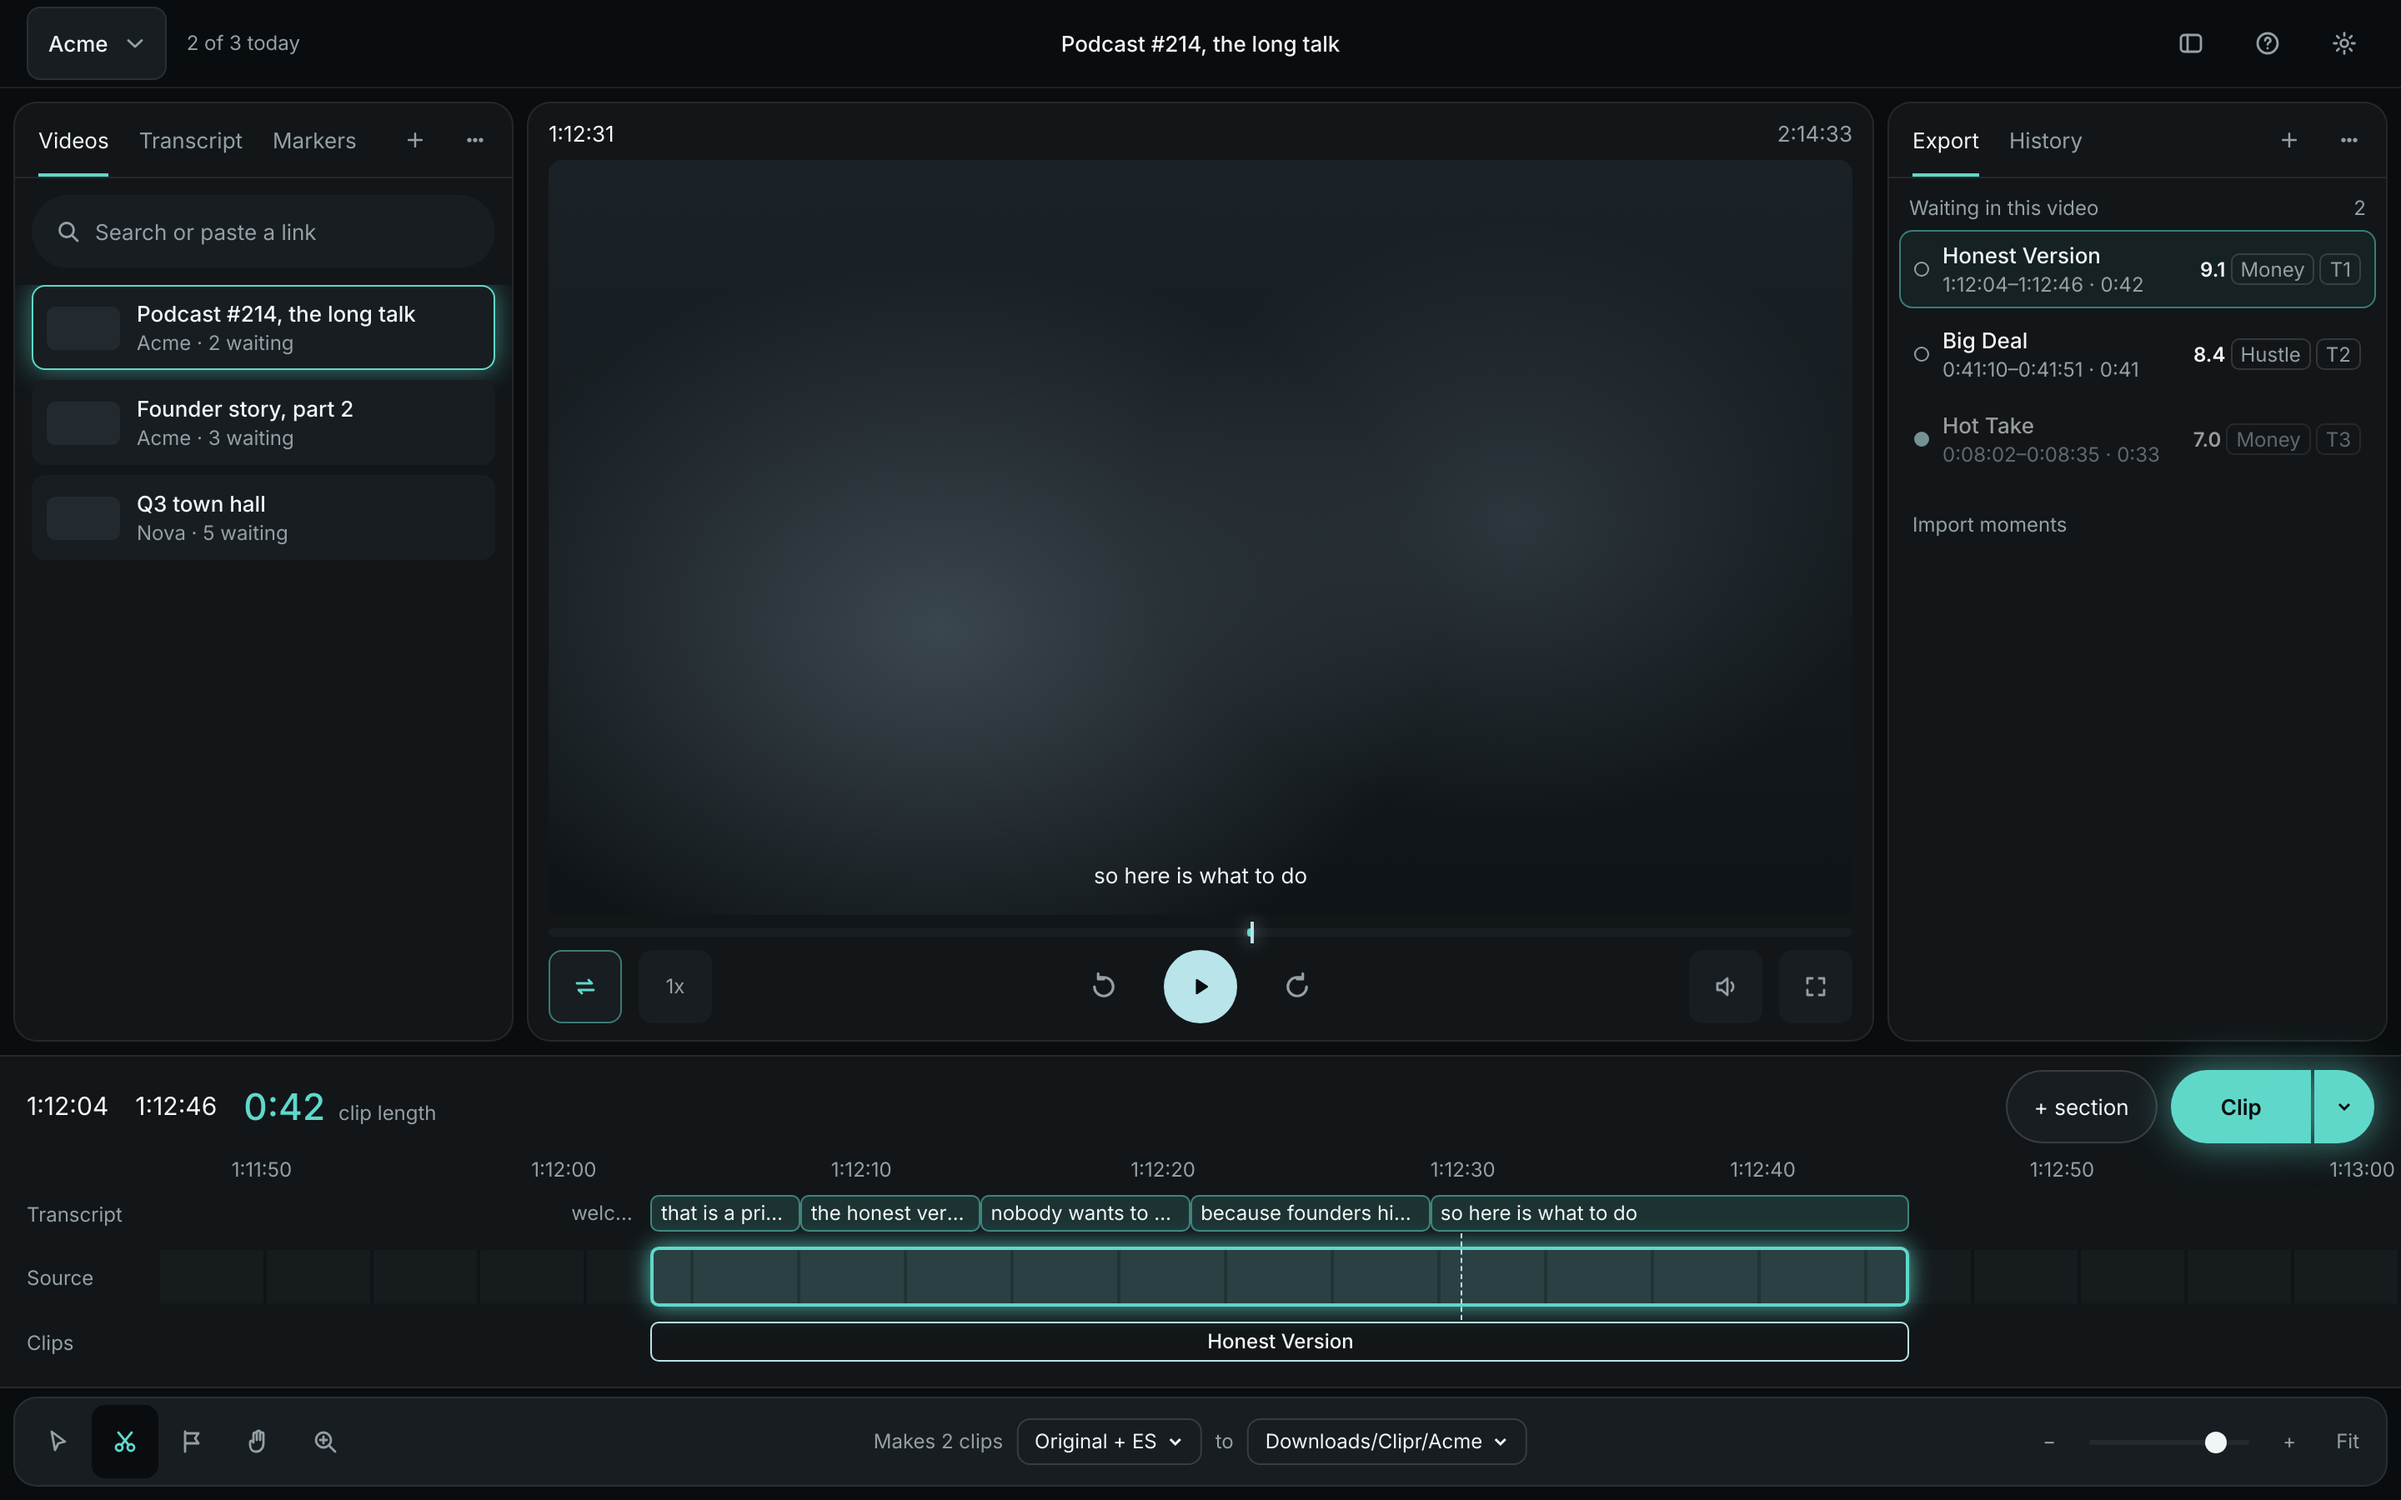
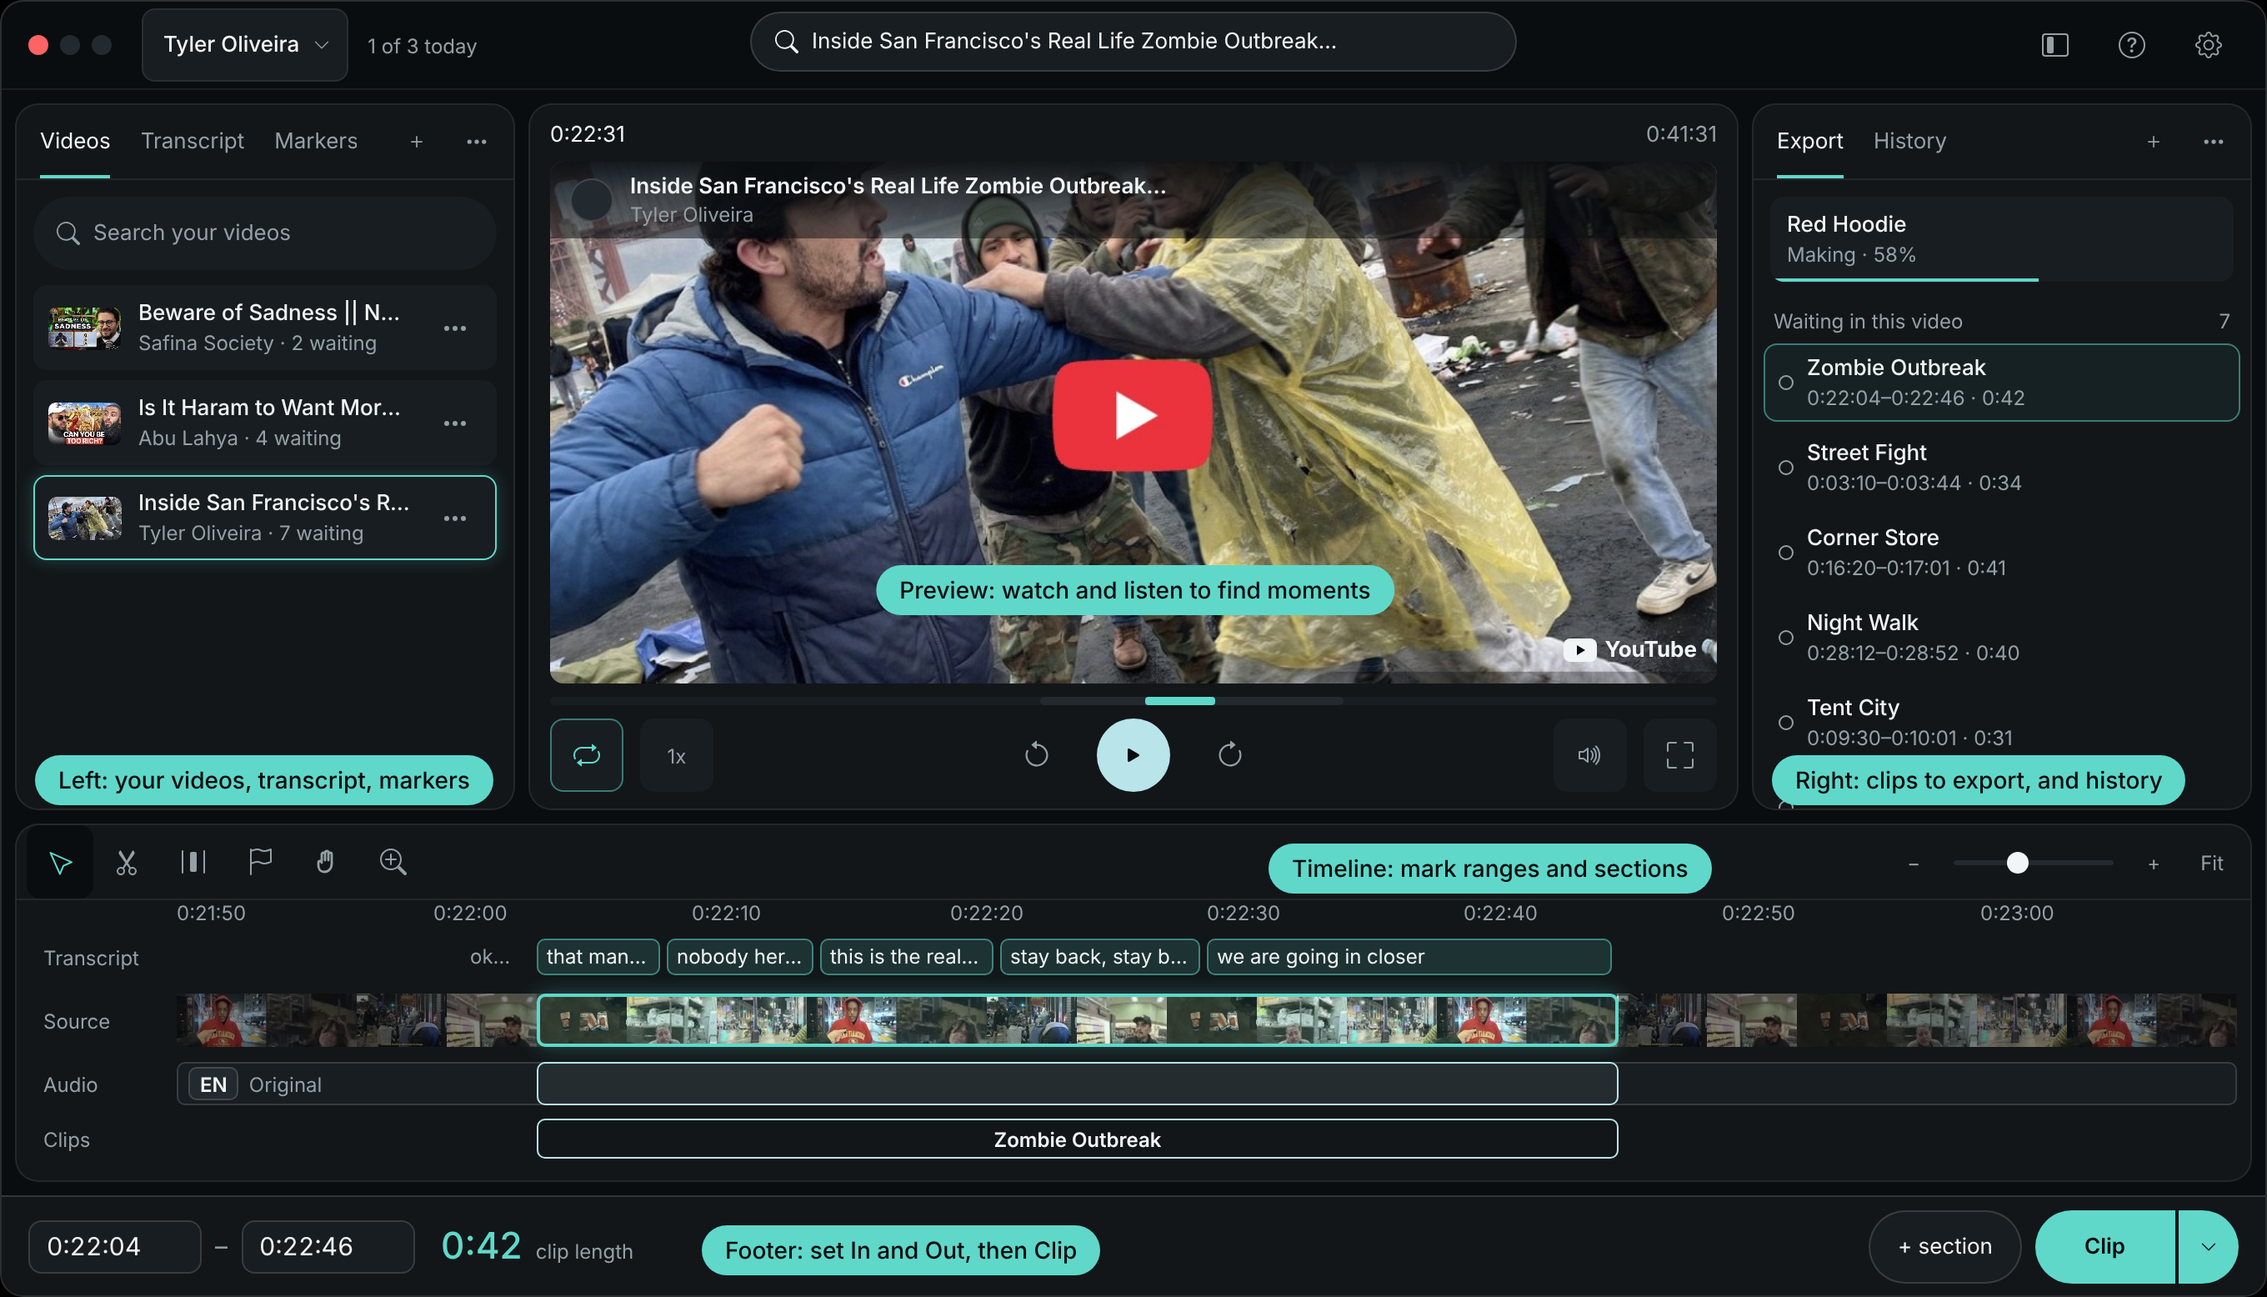
Landing: use the new app tour screenshot
Replaces the landing, README and social preview images with the app tour image.

diff --git a/index.html b/index.html
@@ -383,7 +383,7 @@
         <p class="also"><span class="dl-others">Also for <a href="https://github.com/xxxxxLiam/clipr/releases/latest/download/Clipr-Windows-x64-Setup.exe">Windows</a> and <a href="https://github.com/xxxxxLiam/clipr/releases/latest/download/Clipr-Linux-x64.AppImage">Linux</a></span></p>
             </div>
             <div class="stage">
-              <div class="win lit"><picture><source type="image/webp" srcset="docs/screenshot.webp" /><img src="docs/screenshot.png" width="2880" height="1800" alt="The Clipr workspace: your videos on the left, the video in the middle with a timeline below it showing a 42-second range marked from 1:12:04 to 1:12:46, a Clip button with an editor menu beside it, and the clips waiting to be made on the right." /></picture></div>
+              <div class="win lit"><picture><source type="image/webp" srcset="docs/screenshot.webp" /><img src="docs/screenshot.png" width="2720" height="1556" alt="The Clipr workspace with labels: your videos on the left, the video preview in the middle, the timeline with a 42-second range marked, a Clip button in the footer, and the clips to export on the right." /></picture></div>
               <div class="pin" aria-hidden="true"><svg width="16" height="16" viewBox="0 0 16 16" fill="#5FD8CA" aria-hidden="true"><path d="M13.854 3.646a.5.5 0 0 1 0 .708l-7 7a.5.5 0 0 1-.708 0l-3.5-3.5a.5.5 0 1 1 .708-.708L6.5 10.293l6.646-6.647a.5.5 0 0 1 .708 0"/></svg><span><b>0:42</b> of 2:14:33 downloads</span></div>
             </div>
           </div>

diff --git a/README.md b/README.md
@@ -24,7 +24,7 @@ macOS, Windows and Linux · free, no ads, no account · <a href="#install">or pi
 </div>
 
 <p align="center">
-  <img src="docs/screenshot.png" alt="The Clipr workspace: your videos on the left, the video in the middle with a timeline below it showing a 42-second range marked, a Clip button with an editor menu beside it, and the clips waiting to be made on the right" width="900" />
+  <img src="docs/screenshot.png" alt="The Clipr workspace with labels: your videos on the left, the video preview in the middle, the timeline with a 42-second range marked, a Clip button in the footer, and the clips to export on the right." width="900" />
 </p>
 
 ---
